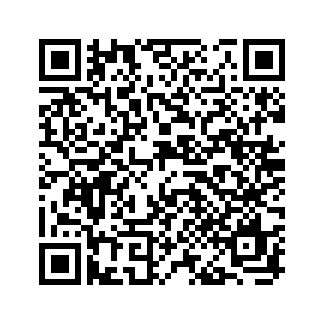
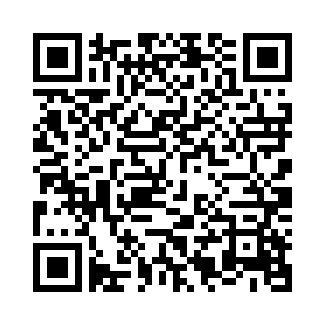
Client finalizado

diff --git a/client/src/main/java/modal/Computer.java b/client/src/main/java/modal/Computer.java
@@ -10,9 +10,10 @@ public class Computer {
 	private String hdTotal;
 	private String hdUsage;
 	private String processorModel;
+	private String processorBrand;
 
 	public Computer(String macaddress, String ip, String operationalSystem, String ramMemory, String hdTotal,
-			String hdUsage, String processorModel) {
+			String hdUsage, String processorModel, String processorBrand) {
 		super();
 		this.macaddress = macaddress;
 		this.ip = ip;
@@ -21,6 +22,7 @@ public class Computer {
 		this.hdTotal = hdTotal;
 		this.hdUsage = hdUsage;
 		this.processorModel = processorModel;
+		this.processorBrand = processorBrand;
 	}
 
 	public Computer() {
@@ -88,6 +90,14 @@ public class Computer {
 
 	public void setProcessorModel(String processorModel) {
 		this.processorModel = processorModel;
+	}
+
+	public String getProcessorBrand() {
+		return processorBrand;
+	}
+
+	public void setProcessorBrand(String processorBrand) {
+		this.processorBrand = processorBrand;
 	}
 
 }

diff --git a/client/src/main/java/modal/GenerateQRCode.java b/client/src/main/java/modal/GenerateQRCode.java
@@ -21,7 +21,7 @@ public class GenerateQRCode {
 	public GenerateQRCode(String serialCript, Computer computer) {
 		String computerFormat = String.format("%s;%s;%s;%s;%s;%s;%s;%s;", computer.getIdComputer(),
 				computer.getMacaddress(), computer.getIp(), computer.getOperationalSystem(), computer.getRamMemory(),
-				computer.getHdTotal(), computer.getHdUsage(), computer.getProcessorModel());
+				computer.getHdTotal(), computer.getHdUsage(), "Intel", "i5");
 		String qrCodeText = serialCript + ";" + new Gson().toJson(computerFormat);
 		String filePath = "src/imgs/qrcode.png";
 		int size = 325;

diff --git a/client/src/main/java/helpers/ComputerHelper.java b/client/src/main/java/helpers/ComputerHelper.java
@@ -32,7 +32,7 @@ public class ComputerHelper {
 				Double memoryFree = Common.parseLong(SYSTEM_INFO.getHardware().getProcessor().getContextSwitches());
 
 				computer = new Computer(macs.get(0), ip, os, memory.toString(), "500GB", memoryFree + "GB".toString(),
-						processor);
+						processor,"i5");
 				computer.setIdComputer(0L);
 			}
 		}
